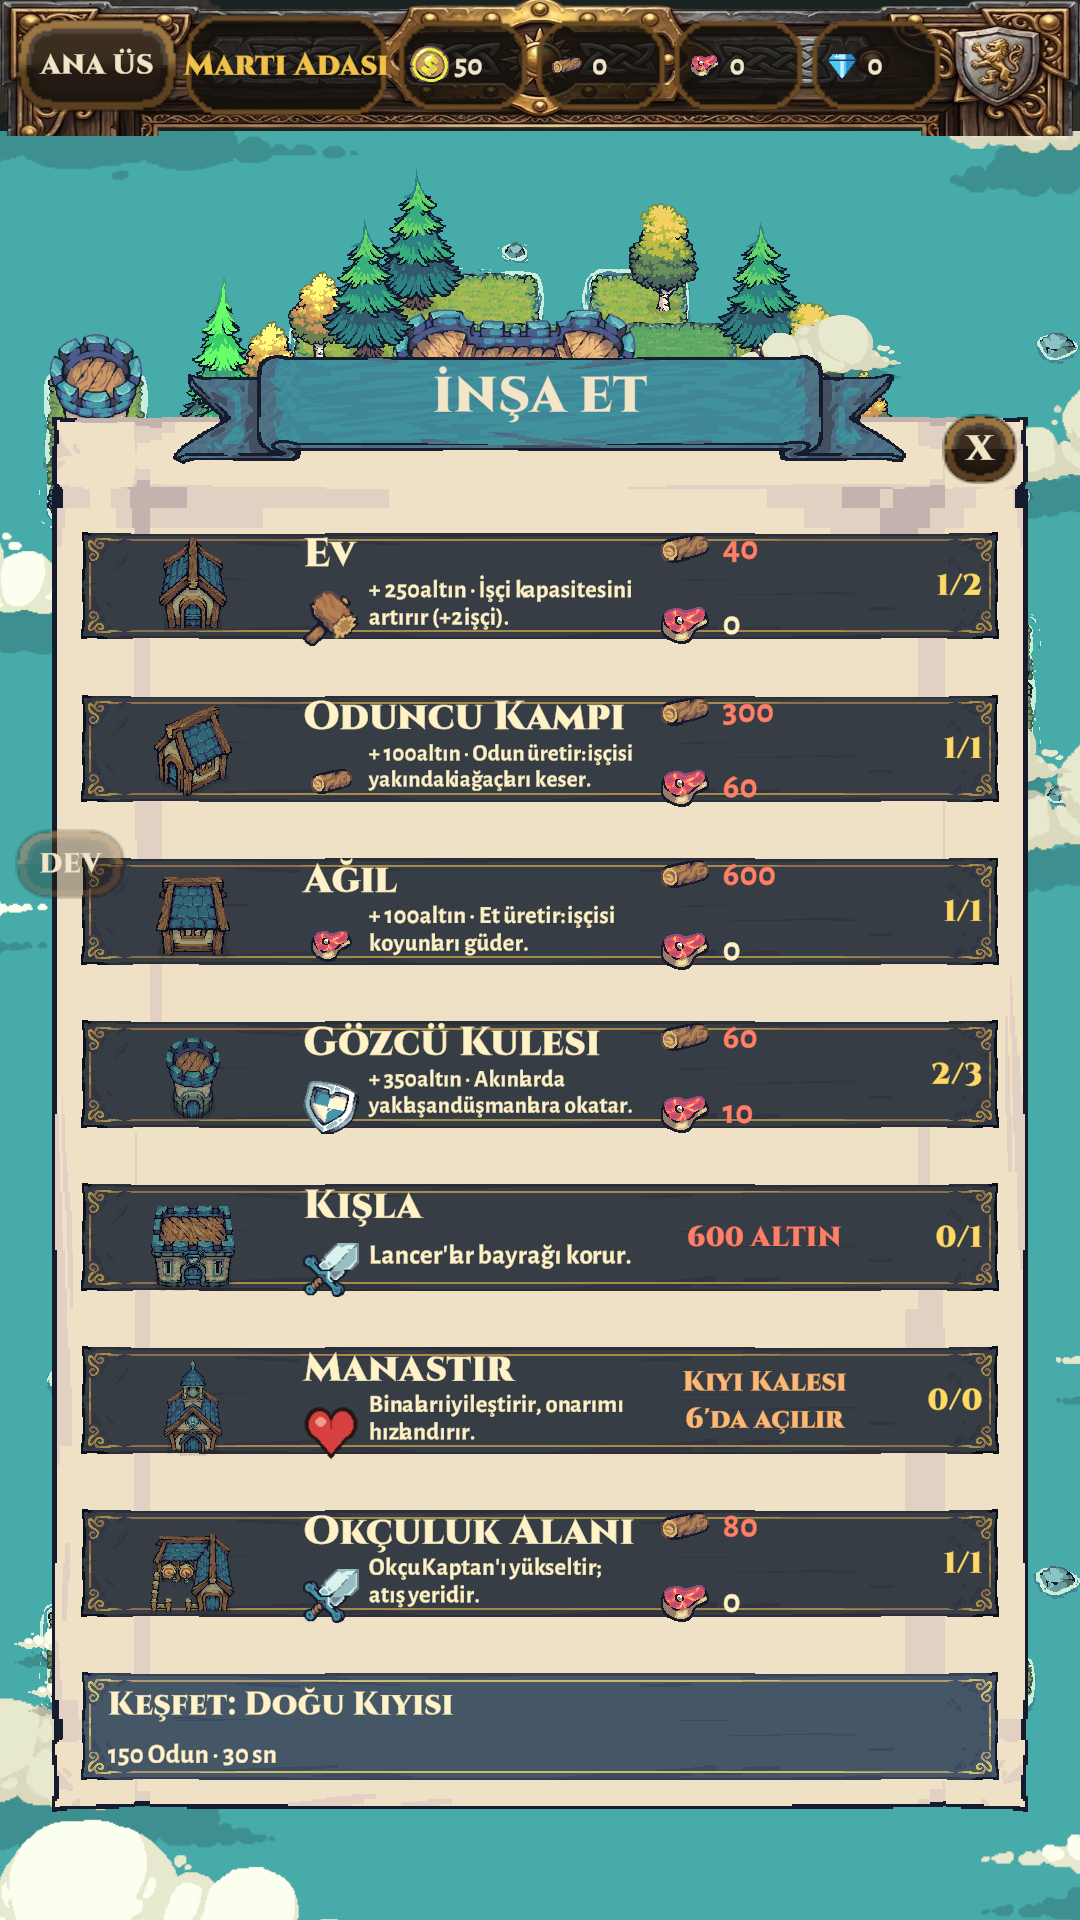
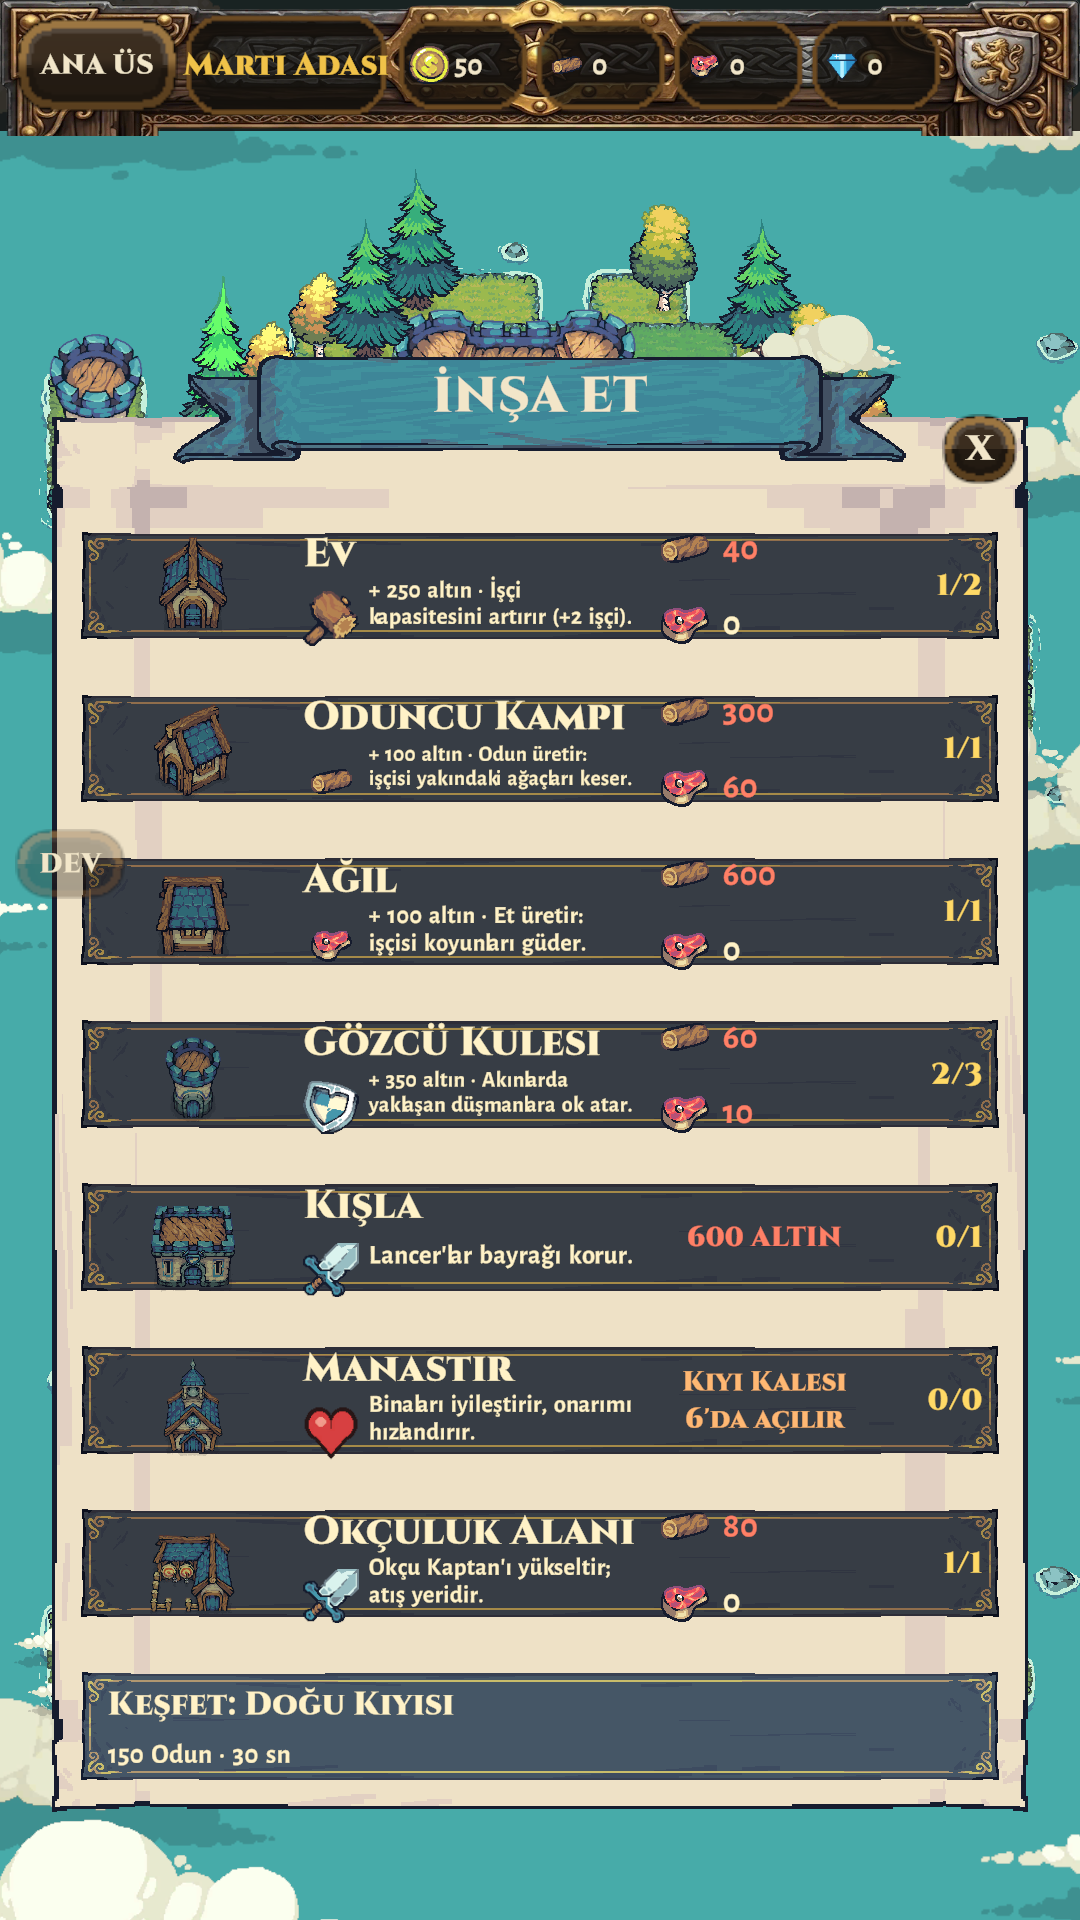
Grup 1/6 düzeltme: Dinamik fontlarda kelime aralığı (boşluk ≥0,26 em, noktalama atlasta)
Alegreya Sans dinamik fontunda boşluk ~0,15 em → küçük puntoda kelimeler
yapışıyordu. Ayarlar kapanış testi sağlamlaştırıldı. Görüntüler yenilendi.

diff --git a/Assets/Scripts/Polish/UI/TmpFontBootstrap.cs b/Assets/Scripts/Polish/UI/TmpFontBootstrap.cs
@@ -60,9 +60,28 @@ public static class TmpFontBootstrap
         if (asset.material != null && def != null && def.material != null &&
             (asset.material.shader == null || asset.material.shader.name.StartsWith("Hidden/")))
             asset.material.shader = def.material.shader;
+        EnsureWordSpace(asset);
         if (!asset.TryAddCharacters(ExtraCharacters, out string missing) && !string.IsNullOrEmpty(missing))
             Debug.LogWarning($"[UI Font] {source.name} eksik karakterler: {missing}");
         return asset;
+    }
+
+    /// <summary>
+    /// Alegreya Sans'ın boşluk glifi yalnız ~0,15 em; küçük/koyu (SDF) yazıda kelimeler yapışıyordu ("yakındakiağaçları").
+    /// Boşluk ve NBSP glifi atlasa eklenir ve ilerleme genişliği en az <see cref="MinSpaceEm"/> em yapılır (tüm Dinamik fontlarda).
+    /// </summary>
+    public const float MinSpaceEm = 0.26f;
+    private static void EnsureWordSpace(TMP_FontAsset asset)
+    {
+        asset.TryAddCharacters("  .,;:!?'\"()+-/%0123456789", out _);
+        float min = asset.faceInfo.pointSize * MinSpaceEm;
+        foreach (uint code in new uint[] { 32, 160 })
+        {
+            if (!asset.characterLookupTable.TryGetValue(code, out var ch) || ch.glyph == null) continue;
+            var m = ch.glyph.metrics;
+            if (m.horizontalAdvance >= min) continue;
+            ch.glyph.metrics = new UnityEngine.TextCore.GlyphMetrics(m.width, m.height, m.horizontalBearingX, m.horizontalBearingY, min);
+        }
     }
 
     /// <summary>Test/tanı için: dinamik font Türkçe + "Dalga" glifleri ekleyebiliyor mu, fallback zinciri kurulu mu, atanmamış yazı değişiyor mu.</summary>
@@ -86,5 +105,33 @@ public static class TmpFontBootstrap
         Object.DestroyImmediate(go);
         if (!swapped) { report = "atanmamis yazi varsayilan fontta kaldi"; return false; }
         return true;
+    }
+
+    /// <summary>Regresyon (kelime aralıkları kayboldu): her Dinamik fontta boşluk glifi var ve "a b" metni "ab"den belirgin geniş.</summary>
+    public static bool SpaceCheck(out string report)
+    {
+        report = "";
+        var fonts = new[] { BodyFont, ReferenceUiVisuals.CreateTitleFontForTest(), ReferenceUiVisuals.CreateBoldFontForTest() };
+        var go = new GameObject("tmpSpaceCheck", typeof(RectTransform), typeof(TextMeshProUGUI));
+        try
+        {
+            var tmp = go.GetComponent<TextMeshProUGUI>();
+            tmp.fontSize = 20; tmp.textWrappingMode = TextWrappingModes.NoWrap;
+            foreach (var f in fonts)
+            {
+                if (f == null) { report = "font yok"; return false; }
+                tmp.font = f;
+                tmp.text = "ab"; float ab = tmp.GetPreferredValues("ab").x;
+                float spaced = tmp.GetPreferredValues("a b").x;
+                float sentence = tmp.GetPreferredValues("yakındaki ağaçları +250 altın").x;
+                float joined = tmp.GetPreferredValues("yakındakiağaçları+250altın").x;
+                bool has = f.characterLookupTable.TryGetValue(32, out var ch) && ch.glyph != null;
+                float adv = has ? ch.glyph.metrics.horizontalAdvance : -1f;
+                if (!has || adv < f.faceInfo.pointSize * MinSpaceEm - 0.01f || spaced < ab + 20f * (MinSpaceEm - 0.01f) || sentence < joined + 20f * 3f * (MinSpaceEm - 0.01f))
+                { report = $"{f.name}: boşluk glifi={has} adv={adv} ab={ab} a_b={spaced} cümle={sentence} bitişik={joined}"; return false; }
+            }
+            return true;
+        }
+        finally { Object.DestroyImmediate(go); }
     }
 }

diff --git a/Assets/Tests/PlayMode/Session12DrawIslandUiTests.cs b/Assets/Tests/PlayMode/Session12DrawIslandUiTests.cs
@@ -92,8 +92,17 @@ public class Session12DrawIslandUiTests
             settings.GetType().GetMethod("Open").Invoke(settings, null);
             yield return null;
             Assert.IsTrue((bool)T("AudioSettingsUI").GetProperty("IsSettingsOpen").GetValue(null), "ada üssünde ayarlar açılır");
+            // Kapanış gerçek zamanlı biter (timeScale 0 olsa bile): panel ve engelleyici kapanır, dokunuşu engellemez.
+            float scaleWas = Time.timeScale;
+            Time.timeScale = 0f;
             T("AudioSettingsUI").GetMethod("CloseIfOpen").Invoke(null, null);
-            yield return null;
+            yield return new WaitForSecondsRealtime(0.5f);
+            Time.timeScale = scaleWas;
+            Assert.IsFalse((bool)T("AudioSettingsUI").GetProperty("IsSettingsOpen").GetValue(null));
+            var panelGo = (GameObject)settings.GetType().GetField("panel", Any).GetValue(settings);
+            var blockerGo = (GameObject)settings.GetType().GetField("blocker", Any).GetValue(settings);
+            Assert.IsFalse(panelGo.activeInHierarchy, "ayarlar kapanınca panel görünmez");
+            Assert.IsTrue(blockerGo == null || !blockerGo.activeInHierarchy, "ayarlar kapanınca dokunuş engellenmez");
 
             // 21: kale yükseltilirken kalan süre etiketi görünür
             long clock = new DateTime(2026, 11, 18, 9, 0, 0, DateTimeKind.Utc).Ticks;

diff --git a/Assets/Scripts/Polish/UI/ReferenceUiVisuals.cs b/Assets/Scripts/Polish/UI/ReferenceUiVisuals.cs
@@ -131,6 +131,9 @@ public static class ReferenceUiVisuals
         if (chosen != null) tmp.font = chosen;
     }
 
+    internal static TMP_FontAsset CreateTitleFontForTest() { if (titleFont == null) titleFont = CreateTurkishFont(Resources.Load<Font>("Fonts/Cinzel-ExtraBold")); return titleFont; }
+    internal static TMP_FontAsset CreateBoldFontForTest() { if (bodyBoldFont == null) bodyBoldFont = CreateTurkishFont(Resources.Load<Font>("Fonts/AlegreyaSans-Bold")); return bodyBoldFont; }
+
     private static TMP_FontAsset CreateTurkishFont(Font source) => TmpFontBootstrap.CreateDynamicFont(source);
 
     public static Sprite ToastSprite()

diff --git a/Assets/Tests/PlayMode/TmpFontBootstrapTests.cs b/Assets/Tests/PlayMode/TmpFontBootstrapTests.cs
@@ -11,4 +11,12 @@ public class TmpFontBootstrapTests
         bool ok = (bool)T("TmpFontBootstrap").GetMethod("SelfCheck").Invoke(null, args);
         Assert.IsTrue(ok, args[0] as string);
     }
+
+    [Test]
+    public void DynamicFonts_KeepWordSpacing()
+    {
+        var args = new object[] { null };
+        bool ok = (bool)T("TmpFontBootstrap").GetMethod("SpaceCheck").Invoke(null, args);
+        Assert.IsTrue(ok, args[0] as string);
+    }
 }

diff --git a/DECISIONS.md b/DECISIONS.md
@@ -1005,3 +1005,4 @@ Kapsam: UI_DEGISIKLIK §4, §6; D106–D108 yaklaşımı aynen: `MiniEmpireUiCat
 - 17 (kanıt): `FancyInfoPanel` gövde alt sınırı maliyet satırıyla (+26 px) çakışıyordu → gövde +34 px yukarıda; süre ikonu/metni ayrıldı; not ve işçi satırı ayrı bantlara; tek satırlık alanlara küçülme+“…”. Ada inşa kartında bilgi sağ sınırı 0,60 (maliyet sütunu 0,62).
 - 20 (kanıt): ada BattleScene'de çalıştığı için `AudioSettingsUI.Open` “savaş aktif değil” diye dönüyordu; ada oturumunda savaş kipi kapalı (düğme yeri aynı).
 - 21: Kıyı Kalesi yükseltilirken panelde süre gizliydi → gösterilir; dünya sayacı ana üssün `Progression.FormatDuration` biçimiyle.
+- Gerileme (kelimeler yapışıyor, D113/D118 ekran görüntüleri; kanıt): Alegreya Sans Dinamik fontlarında boşluk glifi yalnız ~0,15 em (14,4/90 pt; Cinzel 22,5/90) — 10–11 pt koyu SDF yazıda kelimeler kayboluyordu. `TmpFontBootstrap.EnsureWordSpace`: her `CreateDynamicFont` boşluk/NBSP/noktalama/rakamı önceden ekler ve boşluk ilerlemesini ≥0,26 em yapar. Testler: `TmpFontBootstrapTests.DynamicFonts_KeepWordSpacing`. Ayarlar paneli kapanışı (DOTween SetUpdate(true), SetActive(false)) gerçek hata değildi; görüntüdeki panel, testin kapanıştan 1 kare sonra çekmesinin artığıydı (test artık timeScale 0'da gerçek süre bekleyip panel/engelleyici kapalı doğruluyor).
